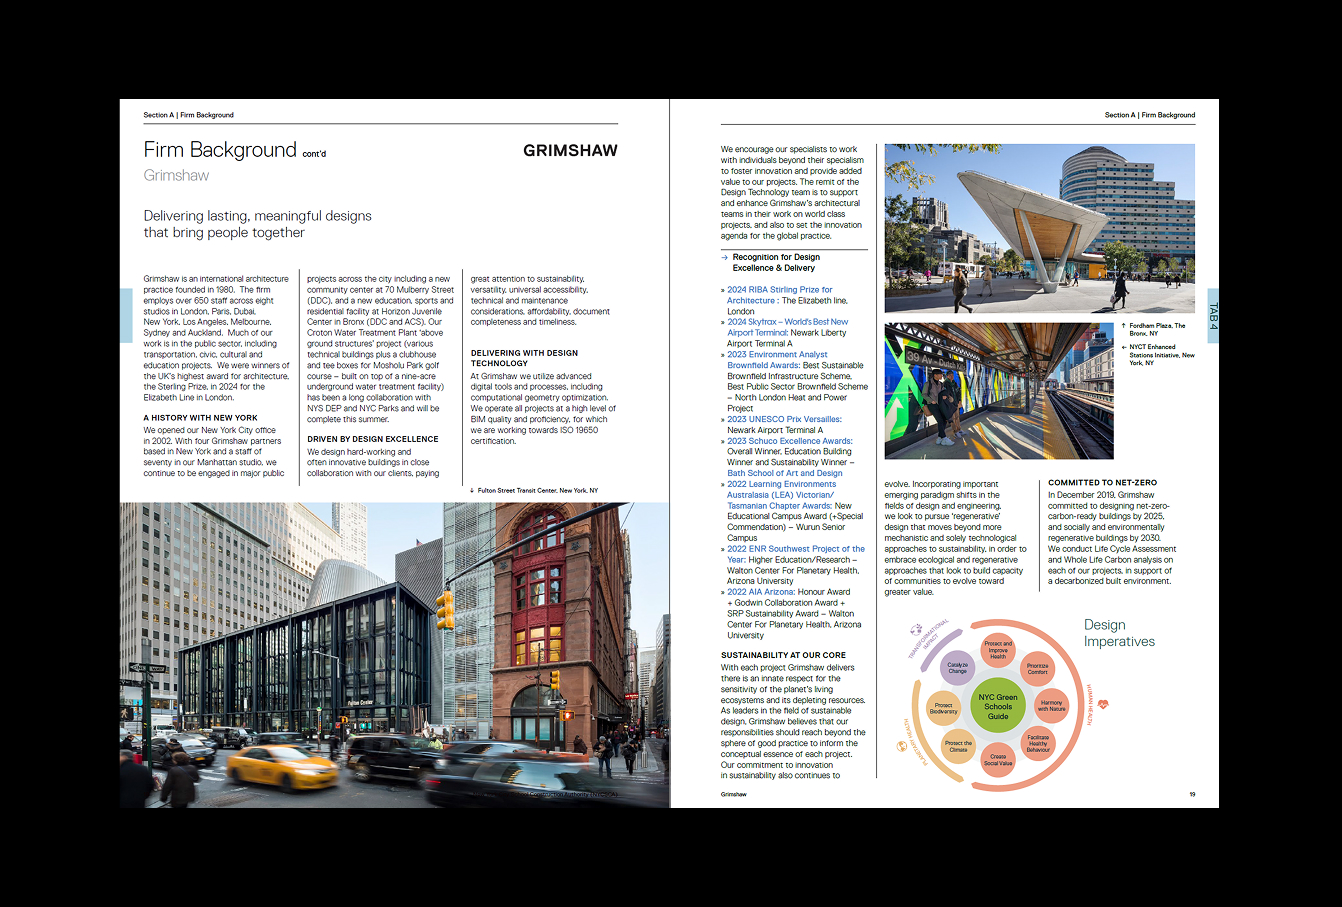
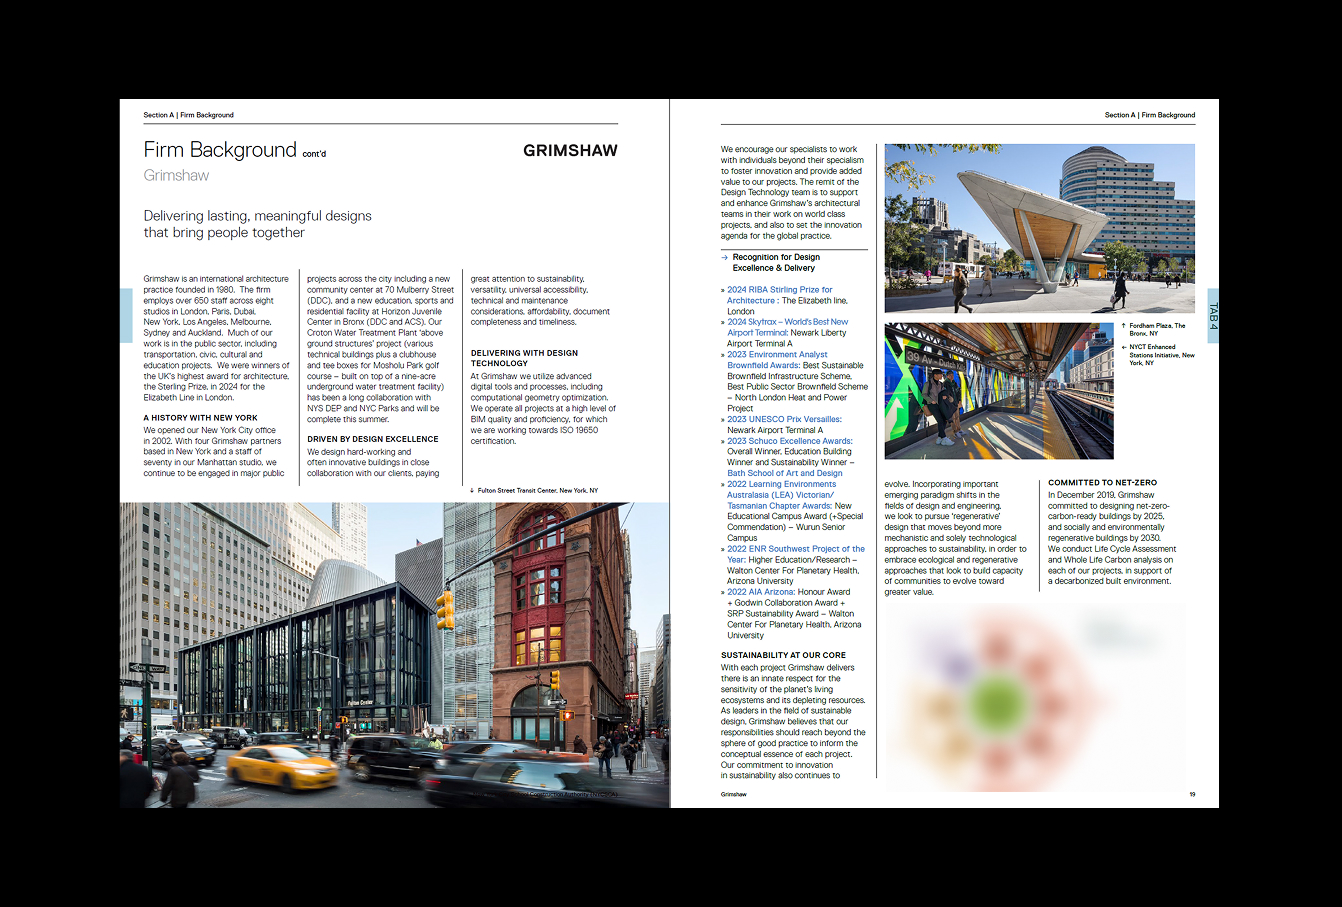
content update

Changed region(s): [[0.6721, 0.6483, 0.8554, 0.8953]]

diff --git a/data/projects.js b/data/projects.js
@@ -1,5 +1,5 @@
 module.exports = [
-  {   type: "p",
+  {   type: "c",
     slug: "grimshaw-pursuits",
     title: "Editoral Design For Architectural Proposals",
     subtitle: "Proposals I designed under Grimshaw's business development team.",
